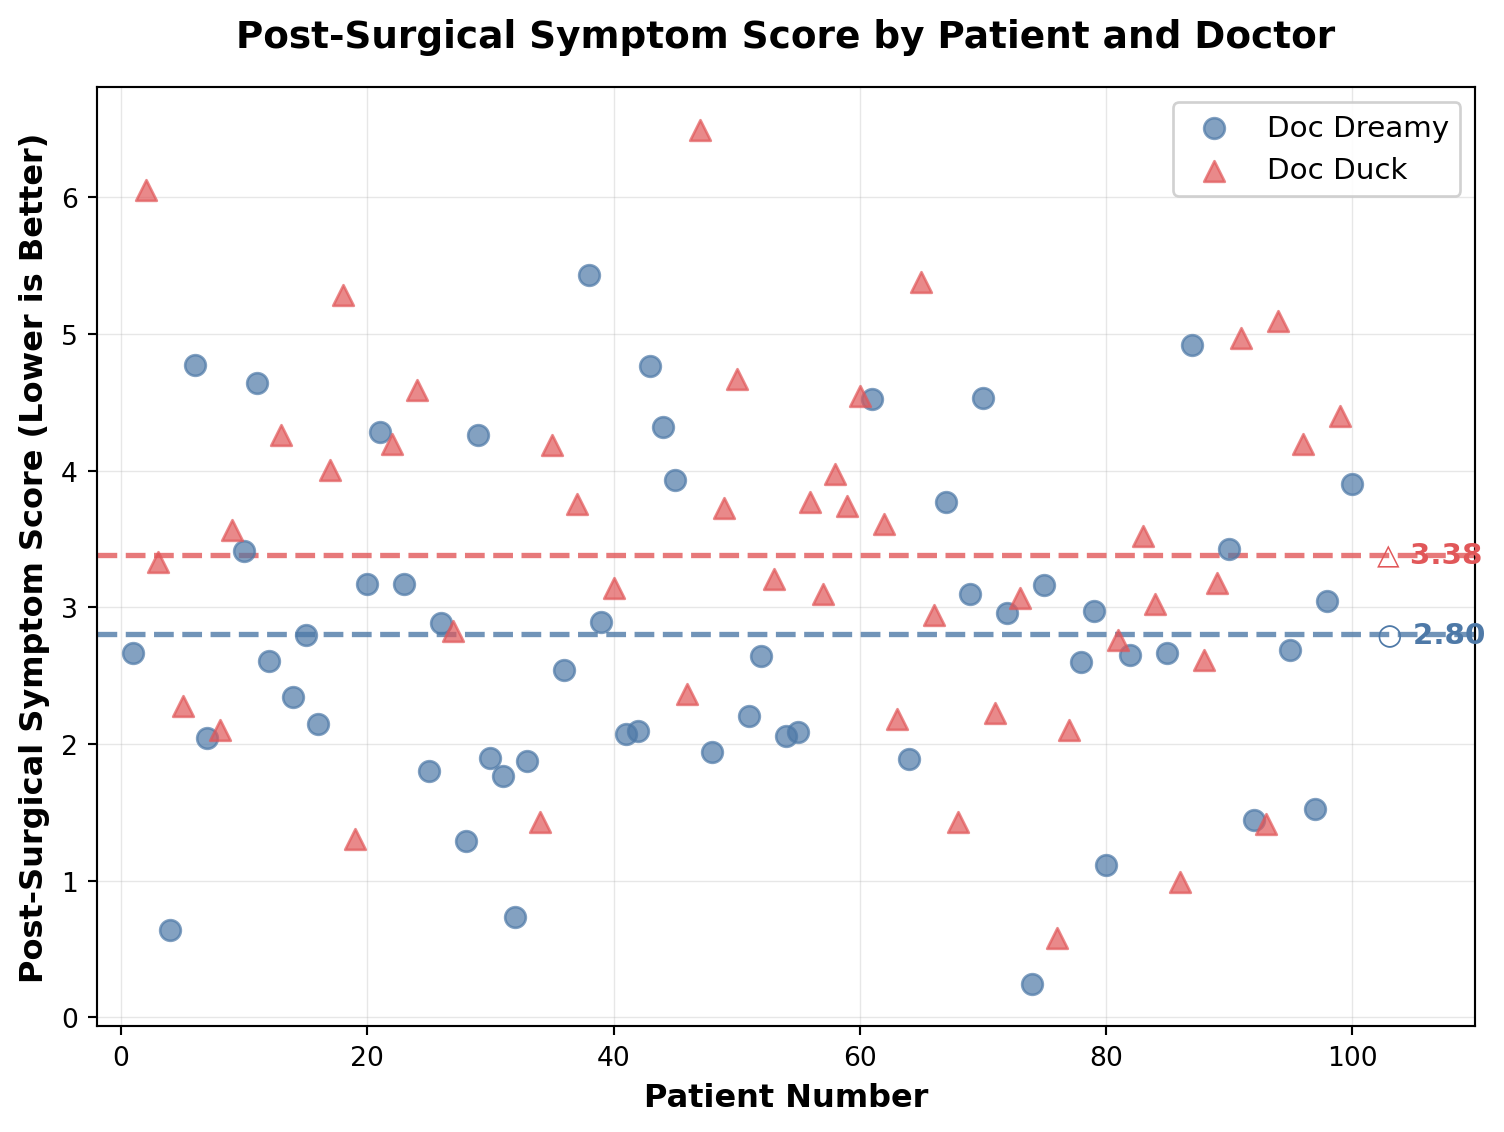
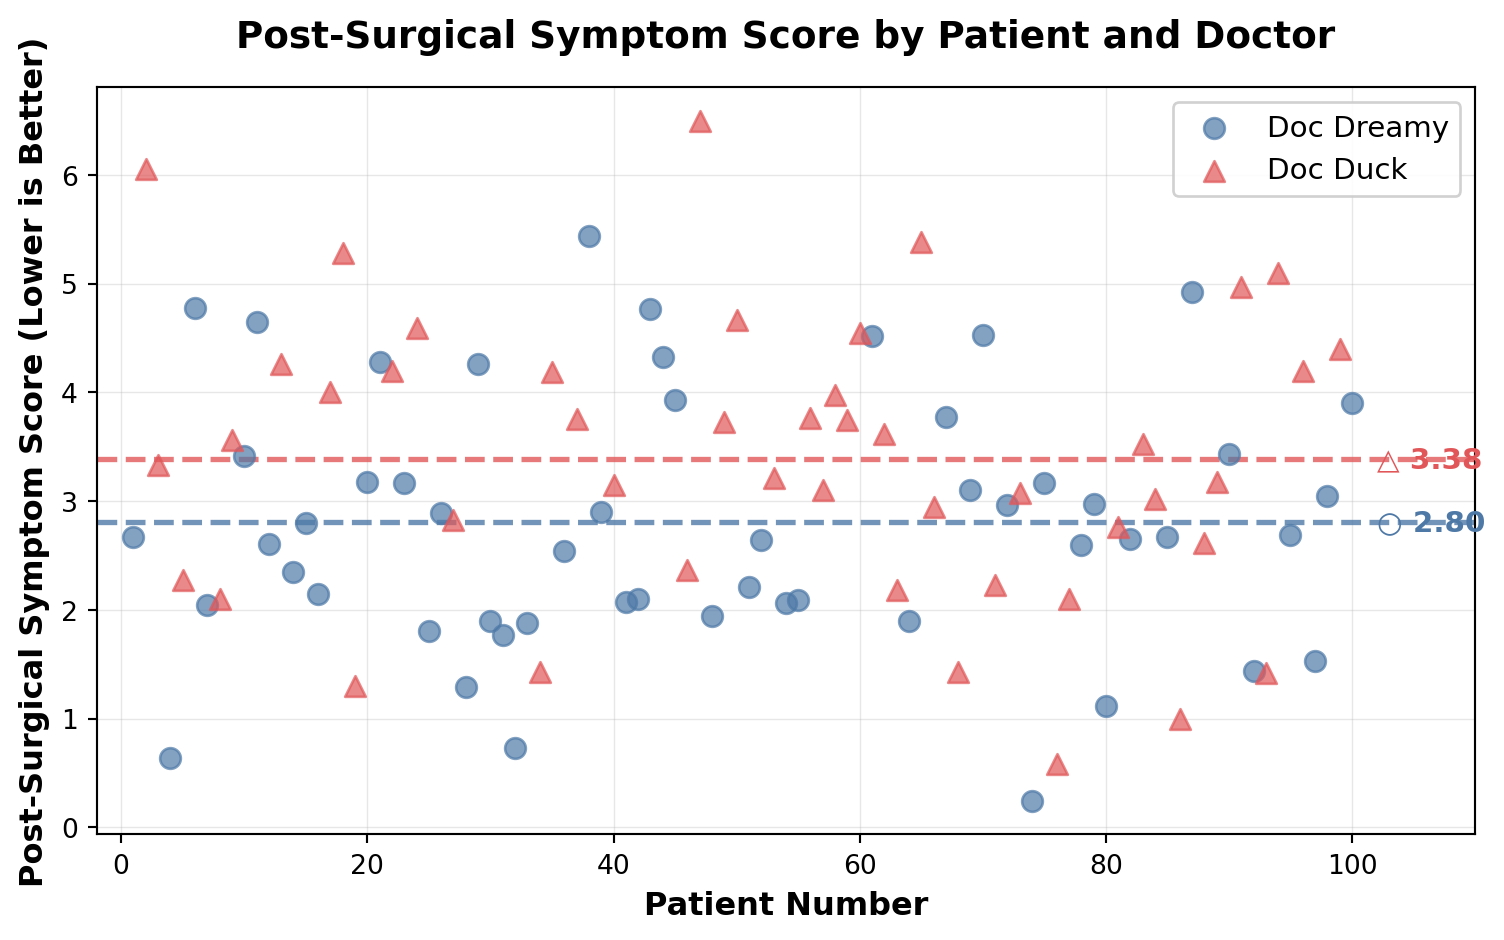
fig size

diff --git a/index.html b/index.html
@@ -183,7 +183,7 @@ window.Quarto = {
 <div class="cell-output cell-output-stdout">
 <pre><code>Number of patients: 100</code></pre>
 </div>
-<div id="load-data-python" class="cell-output cell-output-display" data-execution_count="9">
+<div id="load-data-python" class="cell-output cell-output-display" data-execution_count="23">
 <div>
 
 
@@ -268,7 +268,7 @@ window.Quarto = {
 <div id="fig-plot-outcomes" class="quarto-float quarto-figure quarto-figure-center anchored">
 <figure class="quarto-float quarto-float-fig figure">
 <div aria-describedby="fig-plot-outcomes-caption-0ceaefa1-69ba-4598-a22c-09a6ac19f8ca">
-<img src="index_files/figure-html/fig-plot-outcomes-output-1.png" width="752" height="566" class="figure-img">
+<img src="index_files/figure-html/fig-plot-outcomes-output-1.png" width="752" height="470" class="figure-img">
 </div>
 <figcaption class="quarto-float-caption-bottom quarto-float-caption quarto-float-fig" id="fig-plot-outcomes-caption-0ceaefa1-69ba-4598-a22c-09a6ac19f8ca">
 Figure&nbsp;1: Post-Surgical Symptom Score (lower is better) - Observed Data
@@ -367,7 +367,7 @@ Figure&nbsp;4: DAG Model Explaining Surgical Outcomes
 <div class="cell-output cell-output-stdout">
 <pre><code>Number of randomized patients: 100</code></pre>
 </div>
-<div id="load-data-randomized-python" class="cell-output cell-output-display" data-execution_count="12">
+<div id="load-data-randomized-python" class="cell-output cell-output-display" data-execution_count="26">
 <div>
 
 
@@ -453,7 +453,7 @@ Figure&nbsp;4: DAG Model Explaining Surgical Outcomes
 <div id="fig-plot-outcomes-randomized" class="quarto-float quarto-figure quarto-figure-center anchored">
 <figure class="quarto-float quarto-float-fig figure">
 <div aria-describedby="fig-plot-outcomes-randomized-caption-0ceaefa1-69ba-4598-a22c-09a6ac19f8ca">
-<img src="index_files/figure-html/fig-plot-outcomes-randomized-output-1.png" width="752" height="566" class="figure-img">
+<img src="index_files/figure-html/fig-plot-outcomes-randomized-output-1.png" width="752" height="470" class="figure-img">
 </div>
 <figcaption class="quarto-float-caption-bottom quarto-float-caption quarto-float-fig" id="fig-plot-outcomes-randomized-caption-0ceaefa1-69ba-4598-a22c-09a6ac19f8ca">
 Figure&nbsp;5: Post-Surgical Symptom Score (lower is better) for randomized patients.
@@ -485,7 +485,7 @@ Figure&nbsp;5: Post-Surgical Symptom Score (lower is better) for randomized pati
 <div id="fig-plot-outcomes-severity" class="quarto-float quarto-figure quarto-figure-center anchored">
 <figure class="quarto-float quarto-float-fig figure">
 <div aria-describedby="fig-plot-outcomes-severity-caption-0ceaefa1-69ba-4598-a22c-09a6ac19f8ca">
-<img src="index_files/figure-html/fig-plot-outcomes-severity-output-1.png" width="760" height="566" class="figure-img">
+<img src="index_files/figure-html/fig-plot-outcomes-severity-output-1.png" width="760" height="470" class="figure-img">
 </div>
 <figcaption class="quarto-float-caption-bottom quarto-float-caption quarto-float-fig" id="fig-plot-outcomes-severity-caption-0ceaefa1-69ba-4598-a22c-09a6ac19f8ca">
 Figure&nbsp;6: Post-Surgical Symptom Score (lower is better) by Patient and Severity
